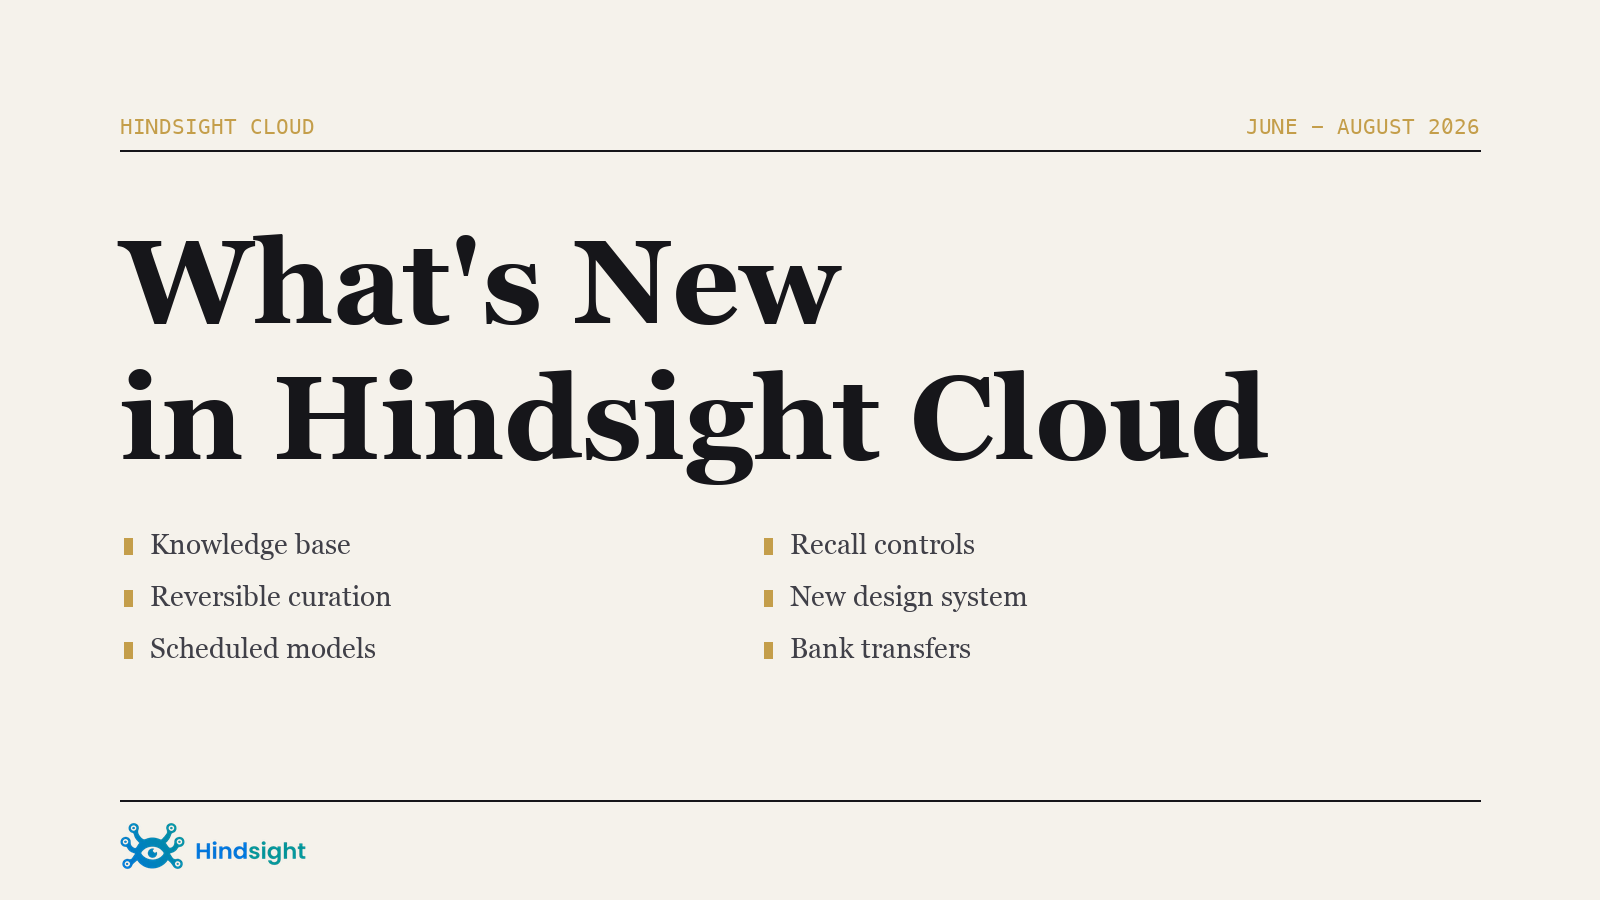
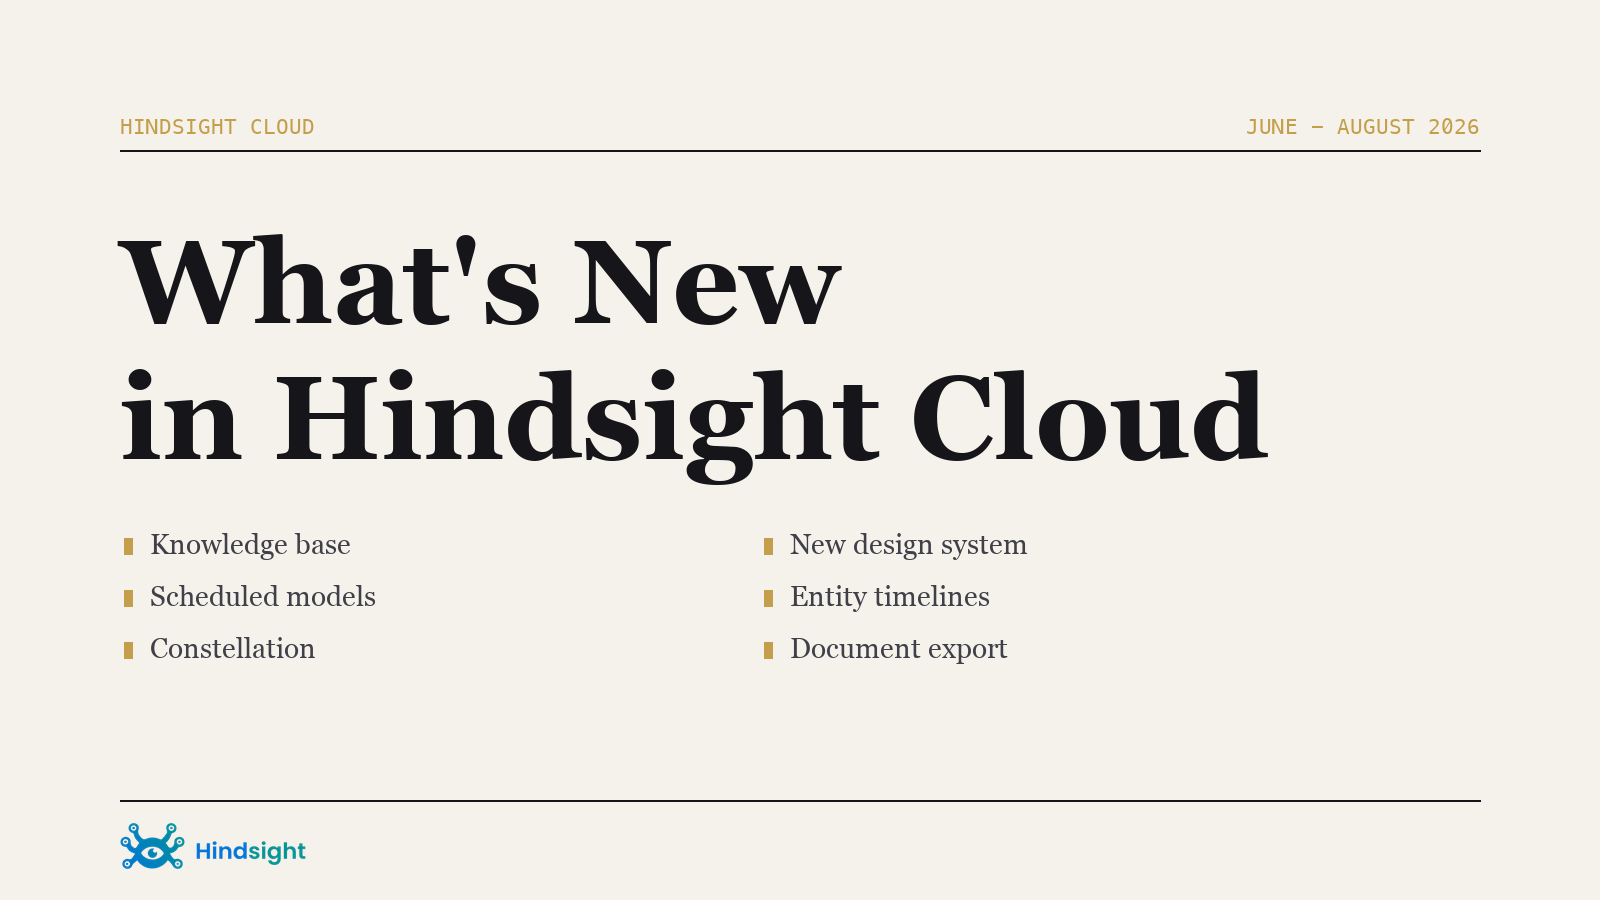
blog: apply review feedback and re-verify every claim
Review feedback:
- Drop reversible curation. It is not in the console.
- Cloud offers document export, not import. Rewrote the transfer section
  as export only and said so explicitly.
- Drop recall pipeline controls.
- Fact-check the rest for both API and console exposure.

The audit found two more claims that are not in the console and removed
them: the API version in the sidebar, and refresh operations recording
what they changed.

Re-verified as present and kept: knowledge base tree, page editor,
page-level search, refresh triggers and staleness badges; the mental model
refresh-trigger selector, cron schedule preview and next-refresh display;
Constellation animation, inline detail and fullscreen; document tag
filtering, entity timelines and in-flight retain badges; background
document export with the optional-observations toggle; operation progress;
observation scopes; and per-bank audit log. Dry-run refresh and dry-run
extraction are labelled as API-side because that is where they exist.

Cover updated to match the revised feature list. Three cross-links added
and verified.

Claude-Session: https://claude.ai/code/session_01AE4NCnCKXUzNDF3N9FaQja

diff --git a/hindsight-docs/blog/2026-08-31-cloud-june-august-updates.md b/hindsight-docs/blog/2026-08-31-cloud-june-august-updates.md
@@ -3,28 +3,26 @@ title: "What's New in Hindsight Cloud: June–August Updates"
 authors: [benfrank241]
 slug: "2026/08/31/hindsight-cloud-june-august-updates"
 date: 2026-08-31T12:00
-tags: [hindsight-cloud, release, knowledge-pages, mental-models, ui, recall, curation]
-description: "Three months of Hindsight Cloud in one place: a client-managed knowledge base, reversible memory curation, scheduled mental model refreshes, per-bank recall controls, and a rebuilt visual design."
+tags: [hindsight-cloud, release, knowledge-pages, mental-models, ui, constellation]
+description: "Three months of Hindsight Cloud in one place: a client-managed knowledge base, scheduled mental model refreshes, a rebuilt visual design, and document export you can run in the background."
 image: /img/blog/hindsight-cloud-june-august-updates.png
 hide_table_of_contents: true
 ---
 
-![What's New in Hindsight Cloud: June to August updates across the knowledge base, curation, mental models, and recall controls](/img/blog/hindsight-cloud-june-august-updates.png)
+![What's New in Hindsight Cloud: June to August updates across the knowledge base, mental models, Constellation, and the console design](/img/blog/hindsight-cloud-june-august-updates.png)
 
 It's been three months since the last Cloud roundup, and rather more than three months' worth of work has landed. The last update went out when 0.6.2 was current, so this one covers thirteen releases: **v0.7.0 through v0.9.2**.
 
-The headline is a **client-managed knowledge base** you can browse and edit in the console. Underneath it: memories you can now edit and un-delete, mental models that refresh on a schedule you set, per-bank control over the recall pipeline, and a rebuilt visual design across the whole control plane.
+The headline is a **client-managed knowledge base** you can browse and edit in the console. Alongside it: mental models that refresh on a schedule you set, a Constellation view you can take fullscreen, background document export, and a rebuilt visual design across the whole console.
 
 <!-- truncate -->
 
 - [**A knowledge base you can edit**](#a-knowledge-base-you-can-edit) — folder tree, page editor, page-level search, and MCP access.
-- [**Reversible curation**](#reversible-curation) — edit a memory, invalidate it, or put it back.
 - [**Mental models on a schedule**](#mental-models-on-a-schedule) — cron triggers, dry runs, and honest staleness.
 - [**A new look**](#a-new-look) — the Hindsight palette, and cards you can actually see in light mode.
-- [**Recall pipeline controls**](#recall-pipeline-controls) — switch stages off per bank.
 - [**Constellation, animated and fullscreen**](#constellation-animated-and-fullscreen) — zoom, pan, and inline memory detail.
 - [**Documents and entities**](#documents-and-entities) — tag filters, entity timelines, in-flight badges.
-- [**Moving data between banks**](#moving-data-between-banks) — export and import without re-running the LLM.
+- [**Exporting a bank's documents**](#exporting-a-banks-documents) — take your extracted facts with you.
 
 ## A knowledge base you can edit
 
@@ -46,22 +44,11 @@ What you get in the console:
 
 Two things extend it beyond the console. `hindsight fs` projects the knowledge base onto your filesystem, so pages can be mirrored locally and managed from the CLI. And knowledge-base CRUD is now exposed as **native MCP tools**, which means an agent connected to Cloud can create, read, update, and search its own knowledge base rather than only reading from it.
 
-## Reversible curation
-
-Memory systems tend to be append-only, which is fine until something wrong gets in. You can now **edit, invalidate, and restore** individual memory units.
-
-- **Edit** a memory's text, context, dates, fact type, or linked entities.
-- **Invalidate** it, which moves it into a separate archive rather than deleting it.
-- **Revert** an invalidated memory back into the bank.
-- **Edits are tracked** with an `edited_at` timestamp, so a hand-corrected memory is distinguishable from an extracted one.
-
-This is available through the API, the SDKs, and MCP, via a `PATCH` on the memory. It isn't surfaced in the console yet, so for now it's something you drive from code rather than by clicking.
-
-The important word is *reversible*. Invalidating is a two-way door, which makes it safe to prune aggressively when an agent has learned something wrong.
+We went deeper on both elsewhere: [knowledge pages for coding agents](/blog/2026/08/13/knowledge-pages-coding-agents) and [managing a knowledge base over MCP](/blog/2026/08/26/knowledge-base-mcp-tools).
 
 ## Mental models on a schedule
 
-Mental models gained a third way to refresh. Alongside the existing manual and refresh-on-new-memories paths, a model can now refresh **on a cron schedule**.
+[Mental models](/blog/2026/06/05/mental-models-deep-dive) gained a third way to refresh. Alongside the existing manual and refresh-on-new-memories paths, a model can now refresh **on a cron schedule**.
 
 The console presents this as a single **Refresh trigger** choice with three options: *Manual*, *On new memories*, or *On a schedule*. The cron field appears only when you pick the third. Schedules are standard 5-field UTC cron expressions, validated as you type, and the two automatic modes are mutually exclusive by design.
 
@@ -75,11 +62,10 @@ Alongside scheduling:
 - **Dry-run refresh** builds a model without persisting it, with an optional trace, so you can see what a refresh *would* produce before committing to it. This one is API-side rather than a button in the console.
 - **A minimum interval** between automatic refreshes stops a busy bank from re-synthesizing the same model continuously.
 - **Consistent staleness reporting** — per-model staleness is now computed and described the same way everywhere it appears, which it previously wasn't.
-- **Refresh operations record what they did**, so a refresh that ran but changed nothing is distinguishable from one that rewrote the document.
 
 ## A new look
 
-The control plane got a design system overhaul, and it's more than a repaint.
+The console got a design system overhaul, and it's more than a repaint.
 
 The stock component-library greys were replaced with the **Hindsight palette**, applied through tokens rather than per-component edits, so every view inherits the new look at once. The most visible fix: in light mode the card color was previously identical to the page background, which meant **cards were effectively invisible**. Pages now sit at `#F3F5F9` with cards at white, and dark mode uses a blue-shifted set with the page at `#080C17` and cards at `#0F1724`.
 
@@ -87,21 +73,6 @@ Two smaller details worth calling out, because they're the kind of thing that qu
 
 - **Letter tracking went from `0.025em` to `0`.** Inter reads wrong with positive tracking at body sizes.
 - **Body copy now clears WCAG AA in both modes.** The muted foreground was retuned to `#525866`, measuring 5.3:1 against the page and 7.1:1 against a card.
-
-## Recall pipeline controls
-
-A recall runs several retrieval stages and then reranks what they produce. Not every bank needs all of them, and stages you don't need cost latency.
-
-Bank configuration now includes a **Recall Pipeline** section with per-bank switches for the **temporal**, **graph**, and **reranking** stages. All three default to on, so nothing changes unless you opt out. Turning reranking off falls back to the fused ordering rather than failing.
-
-This composes into something useful: a bank set to chunk-based extraction with observations off and these stages disabled behaves like a **conventional vector store**. That configuration ships as a ready-made `plain-retrieval` bank template, so you don't have to assemble it yourself.
-
-Two related changes make recall easier to reason about:
-
-- **Per-stage scores.** A recall result used to carry a single opaque `score`. It now carries a `scores` object breaking out `final`, `reranker`, `semantic`, and `text`, so you can see *why* something ranked where it did. The matching `min_scores` request parameter filters per stage instead of applying one global floor.
-- **`prefer_observations`.** Recalling observations alongside raw facts could return the same information twice, once raw and once folded into the observation built from it. This opt-in flag drops any raw fact a returned observation lists as a source. It dedupes by provenance rather than similarity, and runs before truncation so the freed slots backfill and you still get a full result set.
-
-If you want the full picture of what each stage does before switching any of them off, we published a [deep dive on the reranking stage](/blog/2026/08/28/cross-encoder-reranking-agent-memory) and one on [why multiple retrieval arms exist](/blog/2026/08/24/knowledge-graphs-vs-vector-search-agent-memory).
 
 ## Constellation, animated and fullscreen
 
@@ -120,12 +91,14 @@ A cluster of navigation improvements across the data views:
 - **Filter memories by linked entity**, plus an **entity timeline** for seeing what a bank knows about one entity over time.
 - **In-flight retain badges** on documents currently being updated by a running retain operation.
 
-## Moving data between banks
+## Exporting a bank's documents
 
-Bank-to-bank transfers are enabled on Cloud, in both directions:
+You can export a bank's documents from the console, and the export carries the work that was done on them: extracted facts, entity names, causal links, and chunks all travel with the documents.
 
-- **Export and import documents between banks without re-running the LLM.** The extracted facts move with the documents, so you're not paying to re-derive what you already have.
-- **Async export** for large banks, so an export runs as a tracked background operation instead of blocking on a single long request.
+- **It runs in the background.** An export is submitted as a tracked operation rather than a single long request, so a large bank doesn't hold a connection open while it packages up.
+- **Observations are optional.** A checkbox controls whether consolidated observations are included alongside the raw facts.
+
+Note that this is export only today. Cloud doesn't offer a matching document import.
 
 ## Also shipped
 
@@ -135,7 +108,6 @@ Smaller changes worth knowing about:
 - **Dry-run fact extraction** is a read-only API endpoint that previews what a retain would extract from a piece of text without writing anything to the bank: candidate facts and token usage, no entity resolution, embeddings, or persistence.
 - **Observation scopes** can be enumerated, filtered, and visualized, and there's a `shared` scope keyword for observations that span scopes.
 - **Audit log and observations** are overridable per bank, rather than being a single deployment-wide setting.
-- **The API version is displayed in the sidebar**, which makes it obvious what you're actually running.
 
 ## Try it
 
